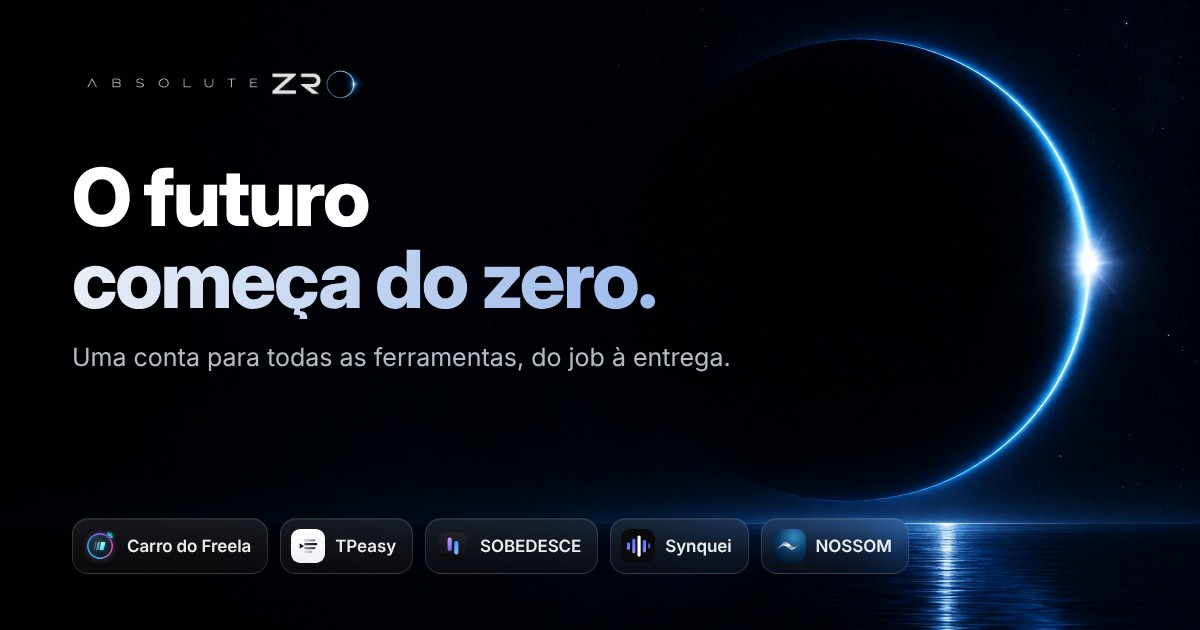
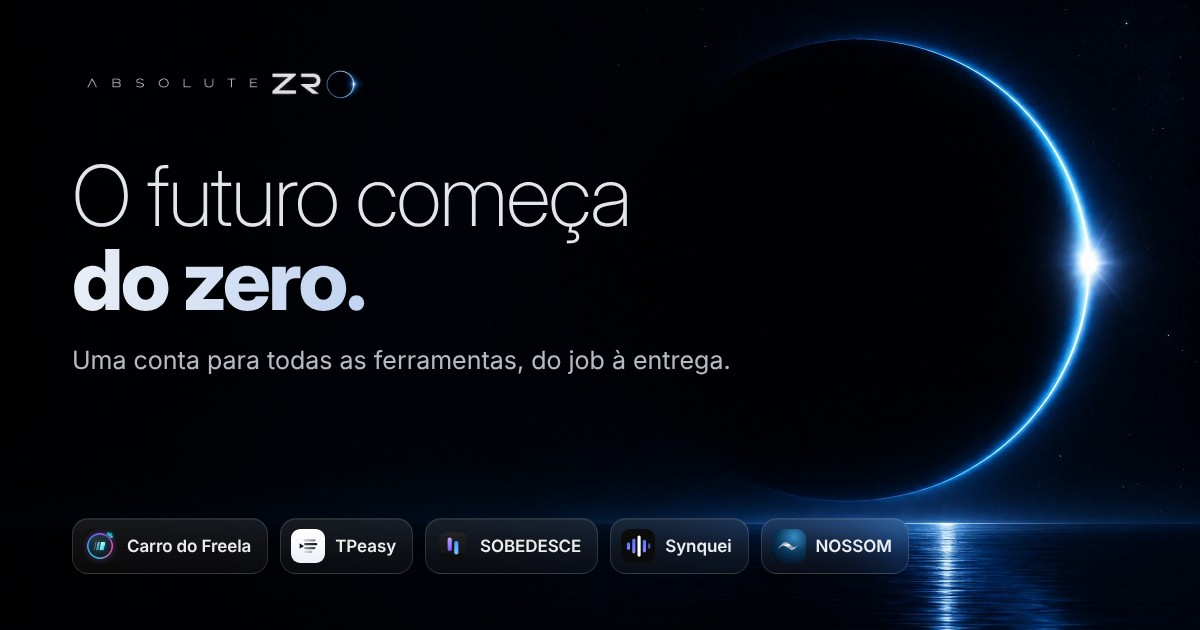
OG: título fino e pesado, como o wordmark
Claude-Session: https://claude.ai/code/session_013NPUMfmdKUDYmYcbuUax5s

Changed region(s): [[0.0617, 0.3921, 0.555, 0.5127], [0.0617, 0.2413, 0.5242, 0.3921], [0.0617, 0.5429, 0.6167, 0.6032]]

diff --git a/scripts/marca/og.html b/scripts/marca/og.html
@@ -46,14 +46,17 @@
         opacity: 0.96;
       }
       h1 {
-        margin-top: 52px;
-        font-size: 80px;
-        line-height: 1.02;
-        font-weight: 800;
-        letter-spacing: -2.2px;
+        margin-top: 50px;
+        font-size: 84px;
+        line-height: 1;
+        font-weight: 200;
+        letter-spacing: -1.5px;
+        color: rgba(240, 244, 250, 0.94);
       }
       h1 span {
         display: block;
+        font-weight: 800;
+        letter-spacing: -2.6px;
         background: linear-gradient(92deg, #e9eef7 0%, #a9c3ec 45%, #6aa2ff 100%);
         -webkit-background-clip: text;
         color: transparent;
@@ -103,7 +106,7 @@
     <div class="fade"></div>
     <div class="wrap">
       <img class="mark" src="../../apps/hub-web/public/brand/absolute-zro-wordmark-alpha.webp" alt="" />
-      <h1>O futuro<span>começa do zero.</span></h1>
+      <h1>O futuro começa<span>do zero.</span></h1>
       <p>Uma conta para todas as ferramentas, do job à entrega.</p>
       <div class="apps">
         <div class="app"><img src="../../apps/hub-web/public/products/carro-do-freela.png" /><b>Carro do Freela</b></div>
